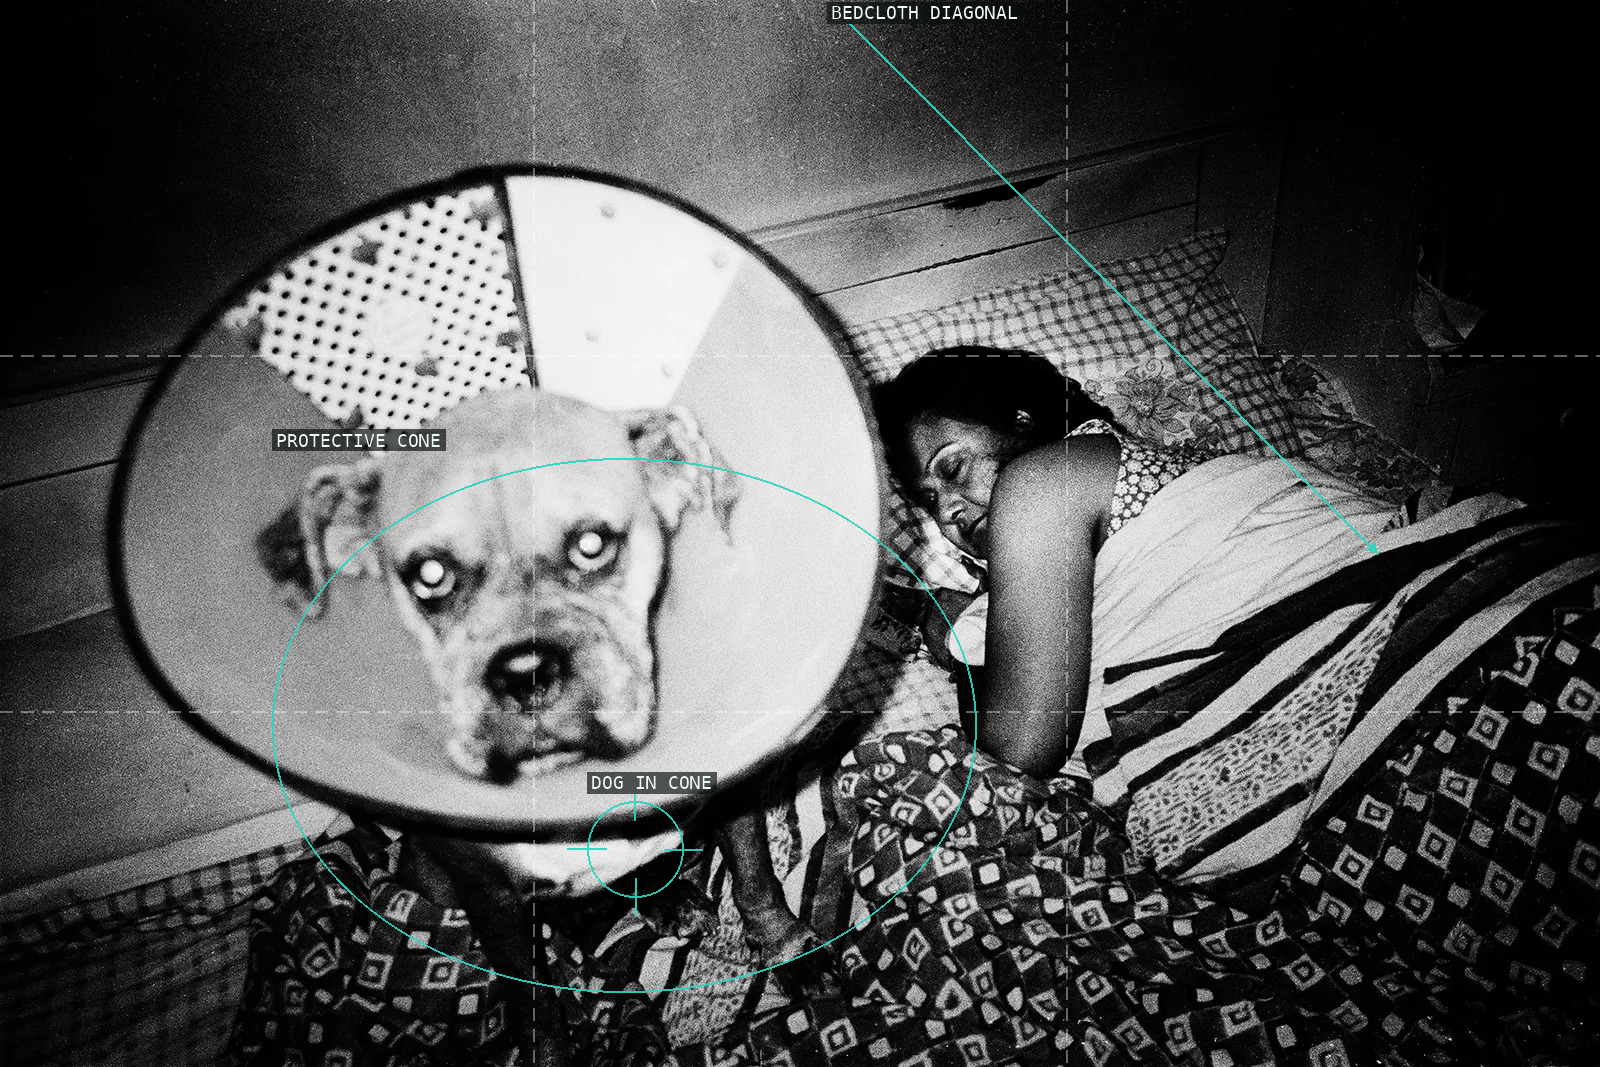
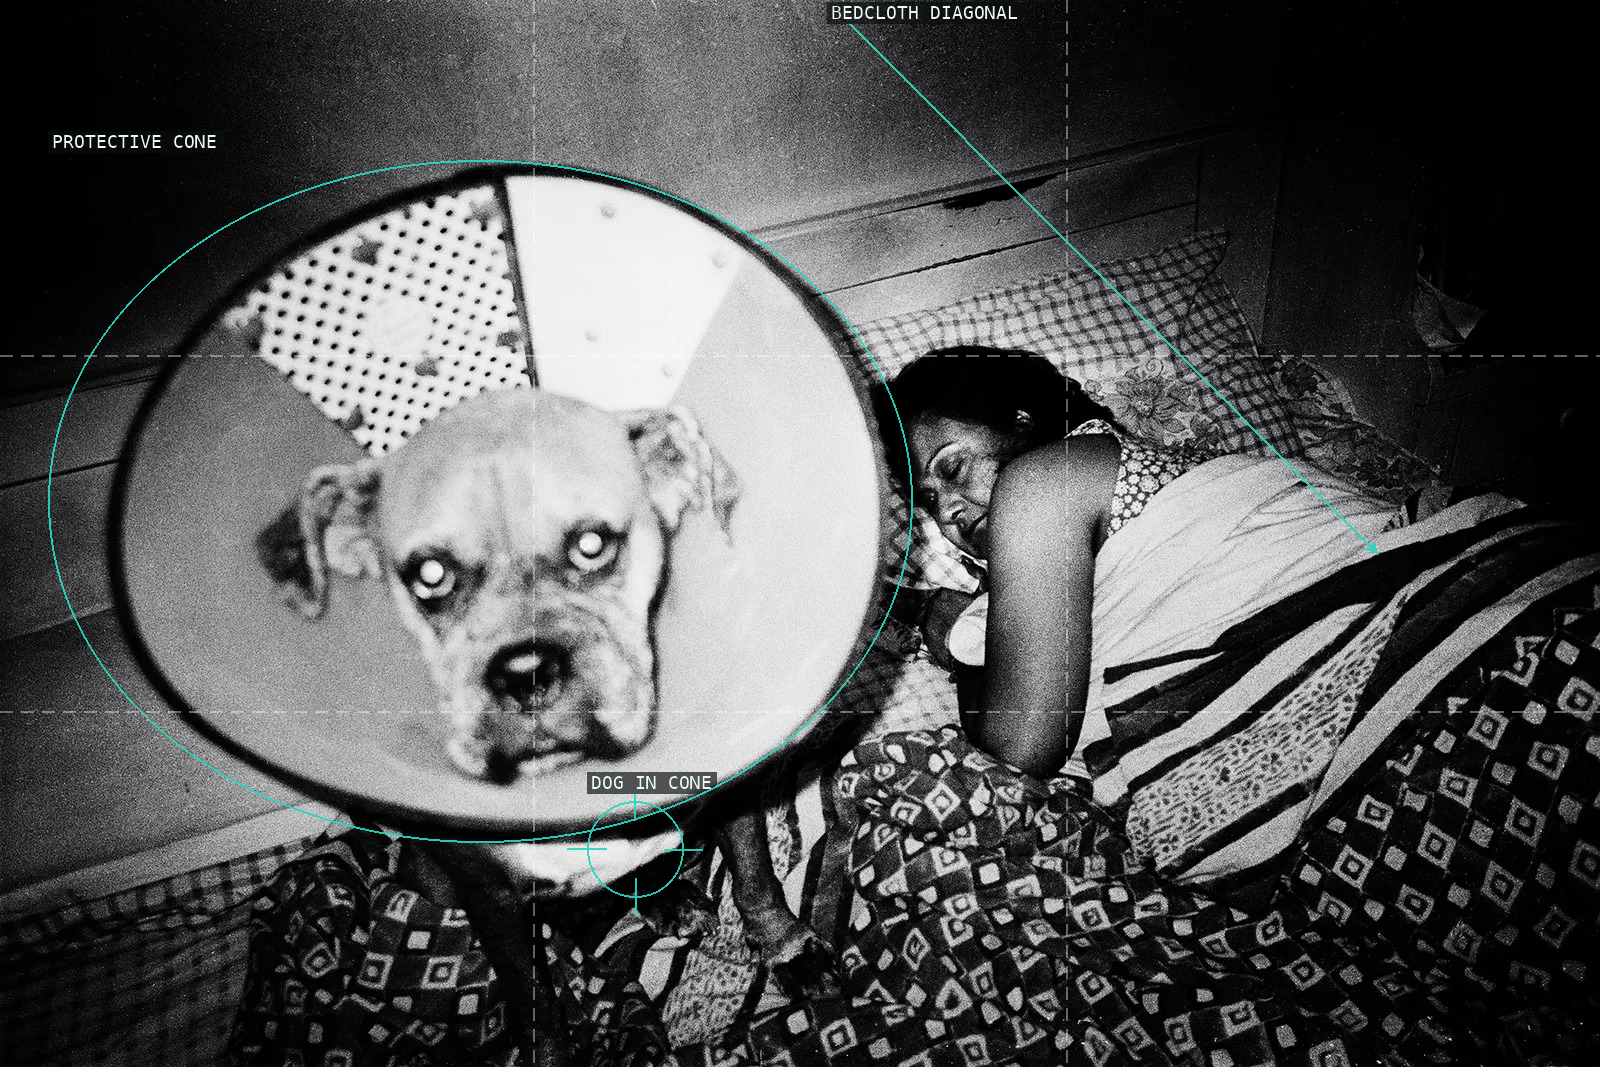
resolve critique: sohrab-hura

Changed region(s): [[0.1562, 0.4021, 0.2812, 0.433], [0.0312, 0.1237, 0.125, 0.1546]]

diff --git a/content/sohrab-hura/critique.md b/content/sohrab-hura/critique.md
@@ -1,4 +1,4 @@
-verdict: revise
+verdict: resolved
 
 ## Critique round — 2026-08-02
 
@@ -11,3 +11,9 @@ verdict: revise
 - `05-snow-ii`: the `RED WATER COURSE` and `CURRENT ZIGZAG` labels overlap at the lower-left endpoint. Both lines still clearly trace the red current, so this is cosmetic only.
 
 All twelve proof PNGs were visually checked. The current geometric scores are 100/100 for every overlay. The chapter’s reported analyzer values match the analysis JSON within tolerance, contains no invented camera settings, and its twelve credited Experimenter records and web renditions are reachable; each fair-use entry includes the required four-factor rationale. The required issue above prevents approval.
+
+## Builder resolution — 2026-08-02
+
+- Resolved required item 1: re-ran composition analysis for `12-life-is-elsewhere-g4`, moved the `PROTECTIVE CONE` ellipse to `cx: 0.30`, `cy: 0.47`, `rx: 0.27`, `ry: 0.32`, and re-rendered the proof. The ellipse now follows the visible cone around the dog’s head; the dog anchor remains on the animal below it. The updated chapter description says the same.
+- Re-scored the corrected overlay: 100/100, with no deductions or warnings; visual review of the composite is clean.
+- Re-verified required fixes from critique history: round `2026-08-02` (commit `0c7fdb01`), item 1. No prior critique rounds exist. The advisory label overlap in `05-snow-ii` was left unchanged because it is cosmetic and the correction would not improve the required fix.
